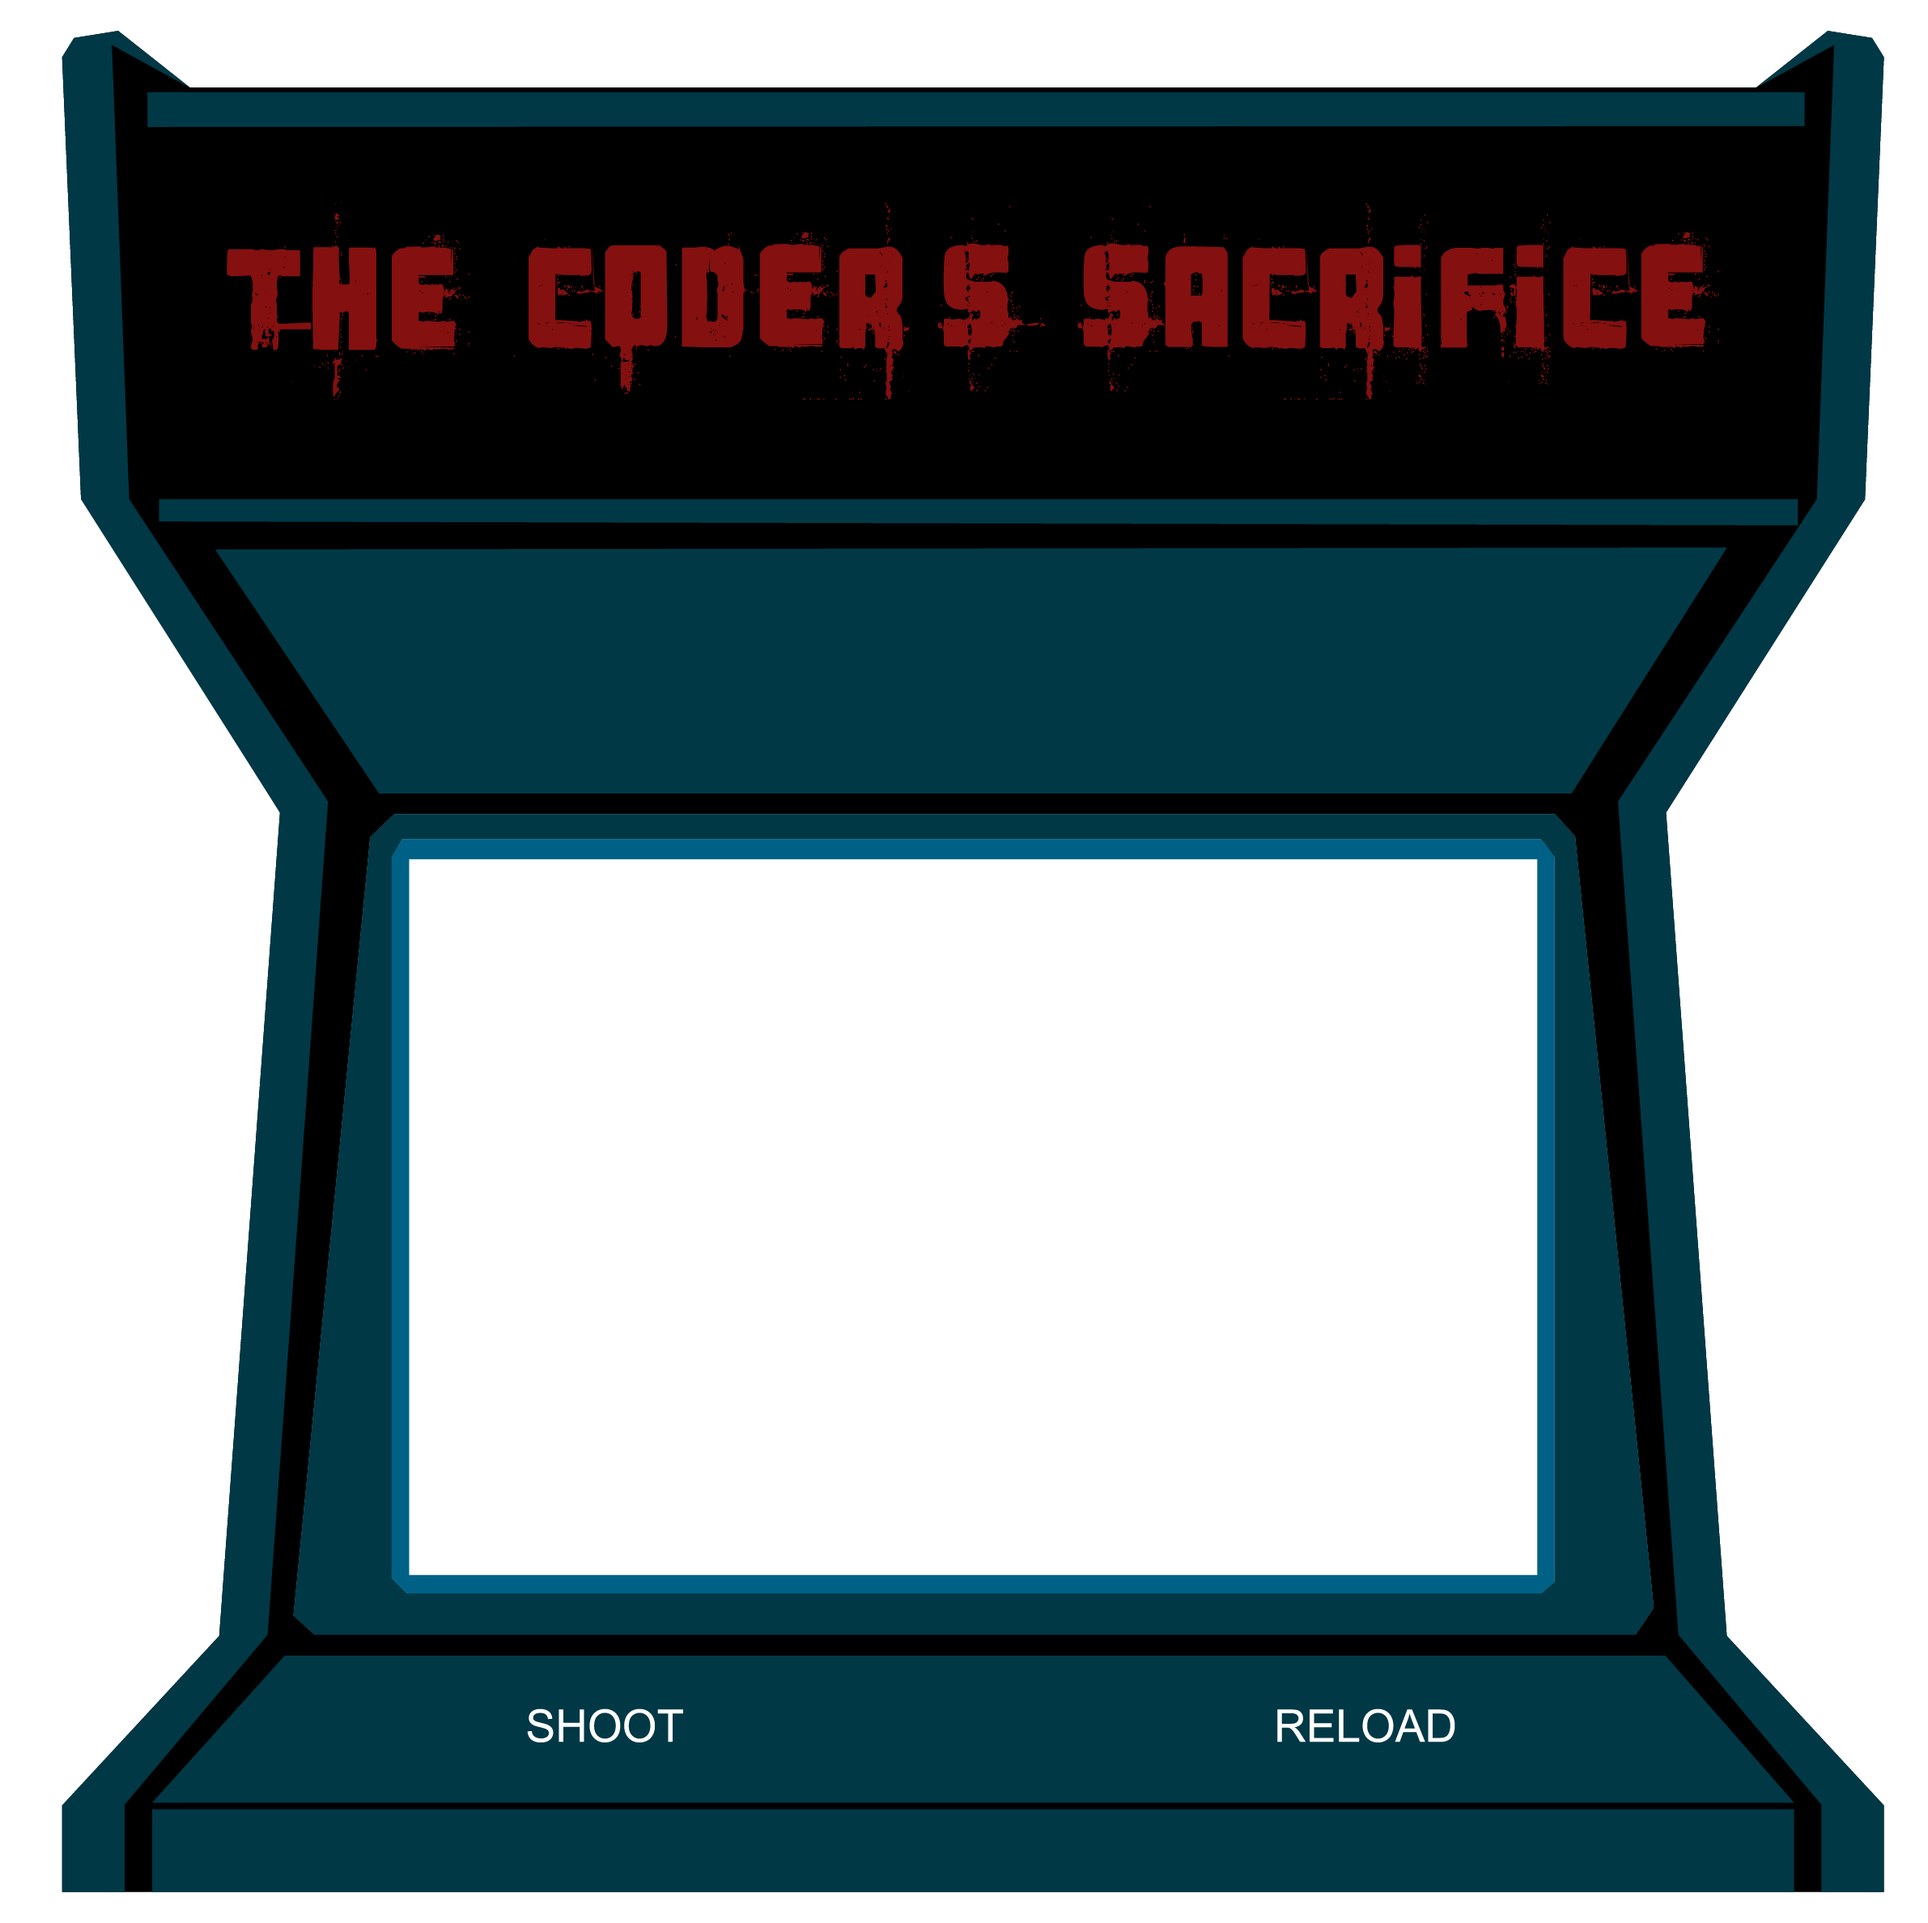
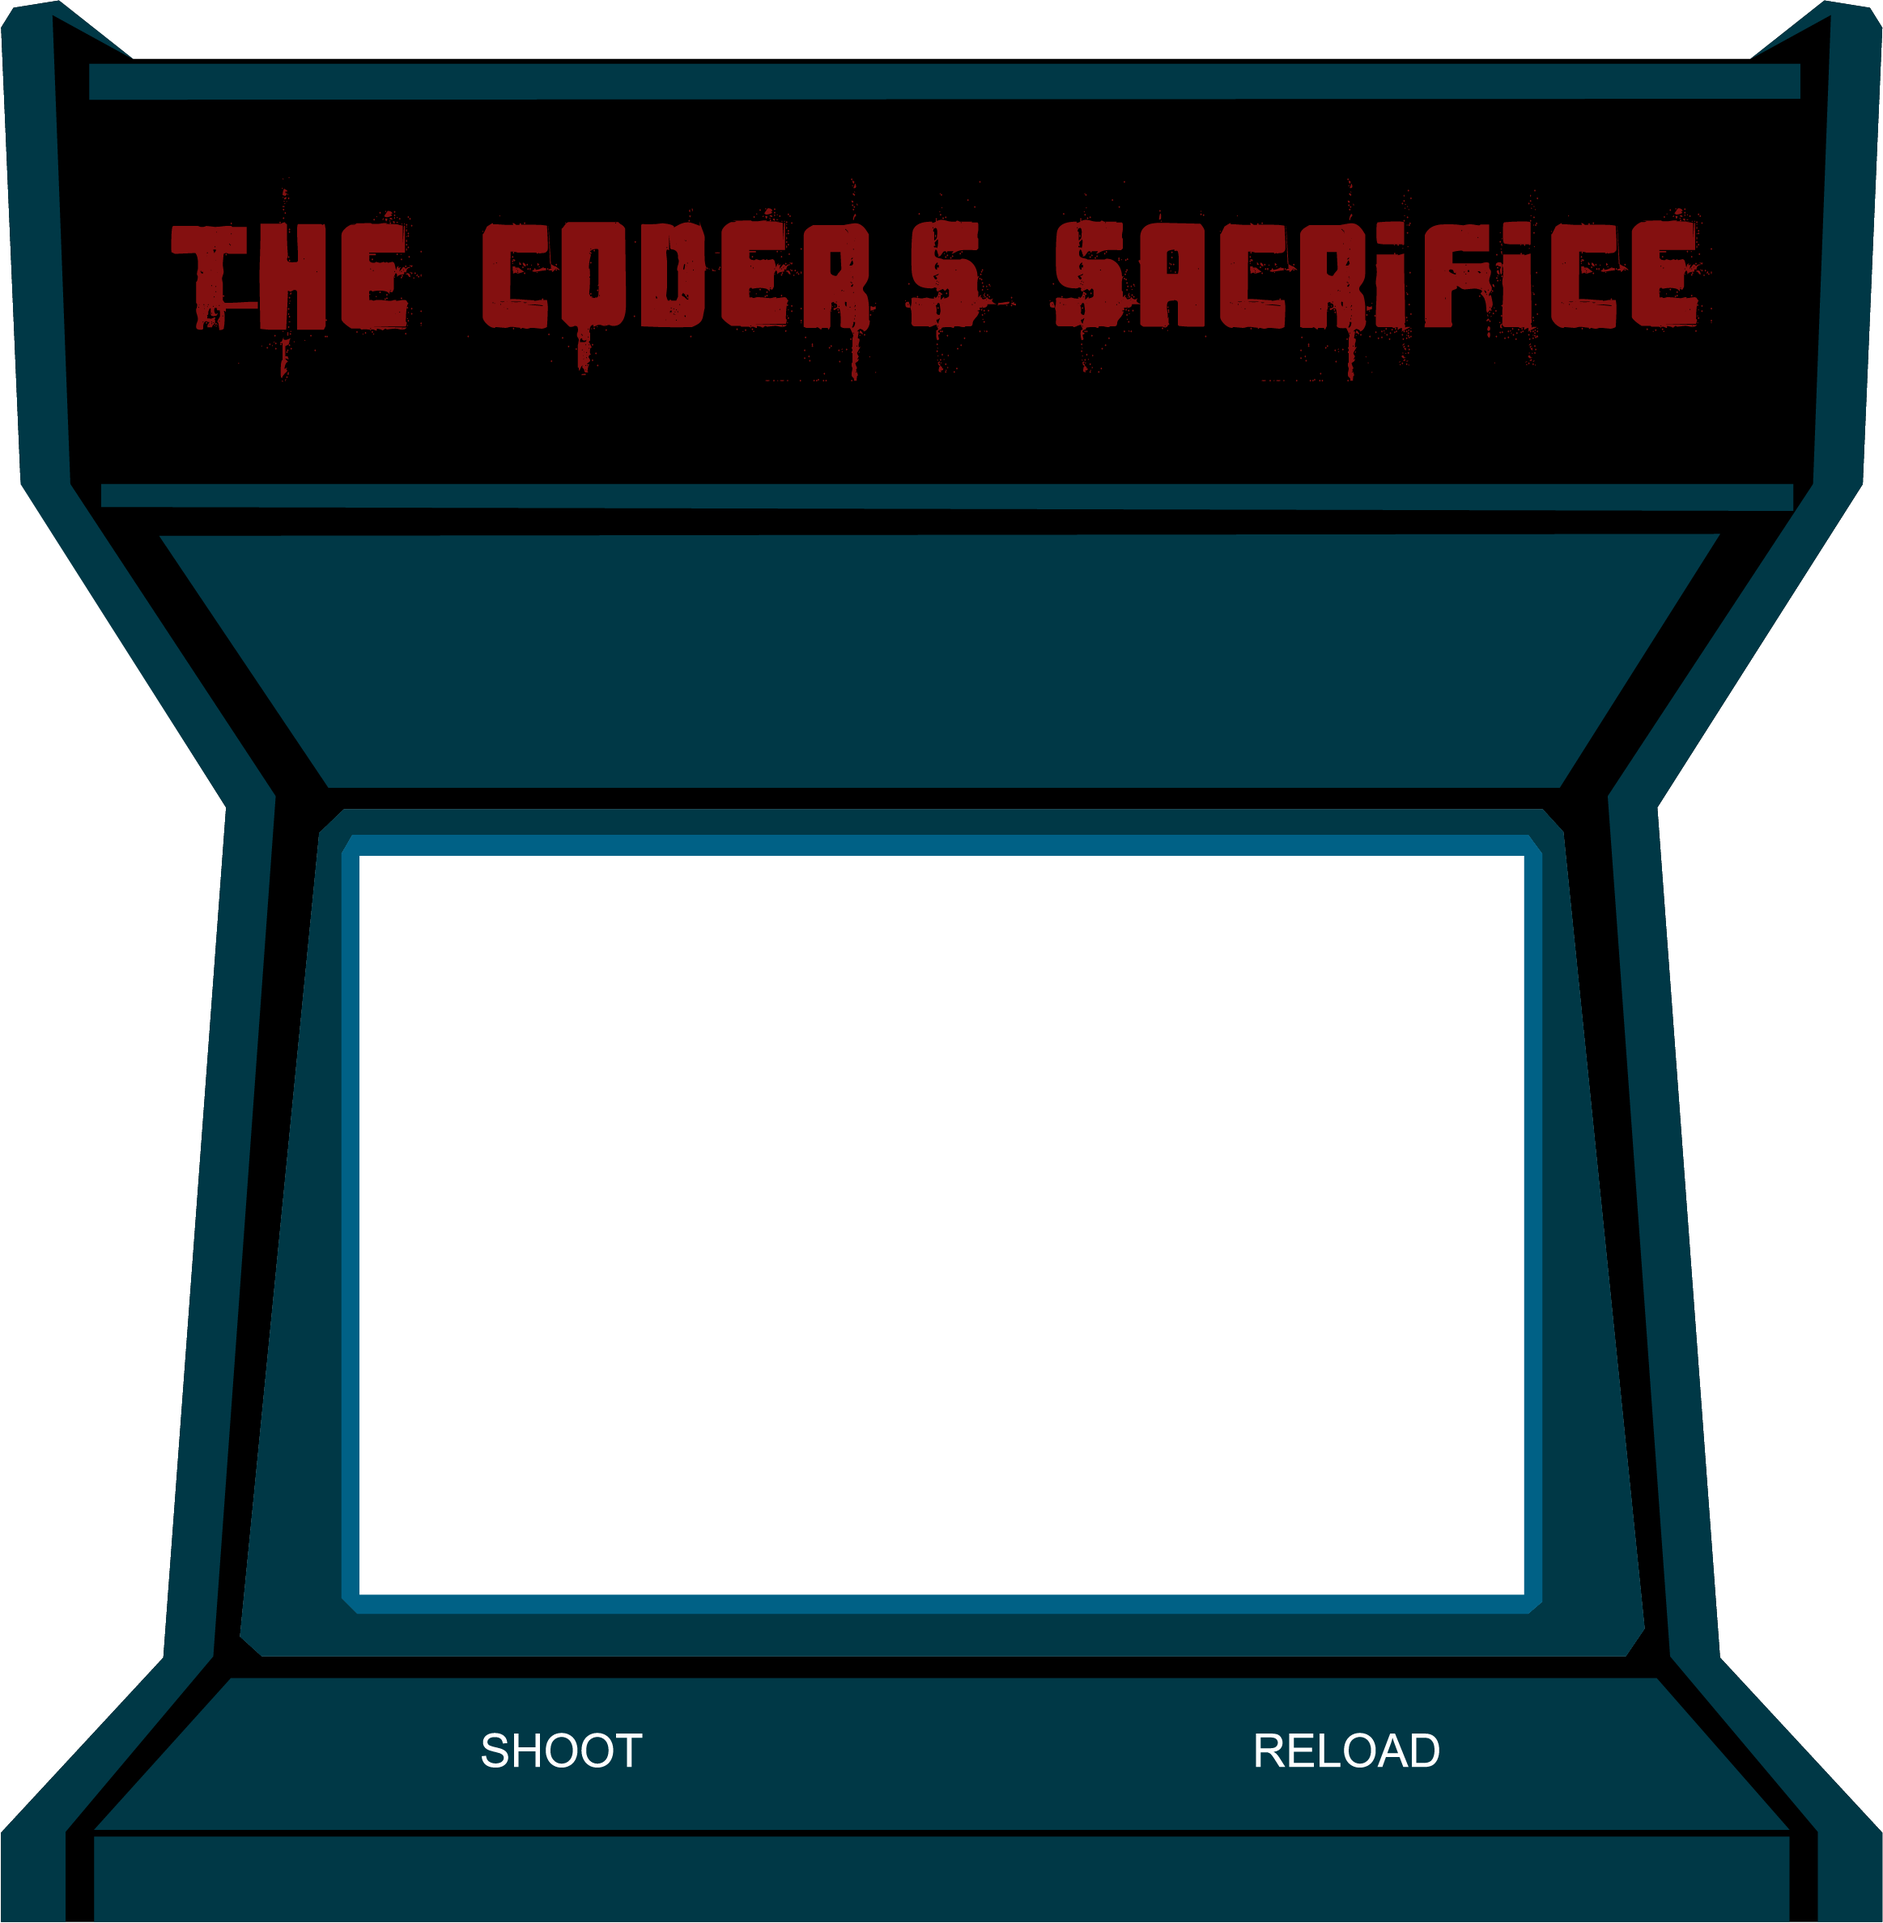
change background

Changed region(s): [[0.0, 0.0, 1.0, 1.0]]

diff --git a/index.html b/index.html
@@ -4,31 +4,31 @@
     <meta charset="UTF-8">
     <meta http-equiv="X-UA-Compatible" content="IE=edge">
     <meta name="viewport" content="width=device-width, initial-scale=1.0">
-    <link rel="stylesheet" href="style.css">
+    <link rel="stylesheet" href="/style.css">
     <title>Document</title>
 </head>
 <body>
-    
-    <div class="contenedor">
-        <div class="fondomaquina">
-            <img class="maquina" src="images/BackgroundPage-06.jpg">
+    <div class="machine">
+        <div class="juego">
+            <!-- <img src="/images/South-Park-The-Stick-Of-Truth-South-Park-screen-shot-1172964.jpg" alt=""> -->
         </div>
     </div>
     
     
-    <div class="contenedor1">
+    
+    <!-- <div class="contenedor1">
         <div class="south">
-            <img class="park" src="/images/South-Park-The-Stick-Of-Truth-South-Park-screen-shot-1172964.jpg">
+            <img class="park" src="/images/South-Park-The-Stick-Of-Truth-South-Park-screen-shot-1172964.jpg"> 
 
         </div>
-    </div>
-    <footer>
+    </div> -->
+    <!-- <footer>
         <div class="copy">
             <p><p>&copy; 2022 The Coders Sacrifice
             </span></p>
         </div>   
 
-    </footer>
+    </footer> -->
     
         
     

diff --git a/style.css b/style.css
@@ -31,7 +31,7 @@
     top: 20px;
     right: 30px;
     font-size: 30px;
-    fotn-weight: bold;
+    font-weight: bold;
     text-decoration: none;
     color: #F00;
     transition: all 200ms;
@@ -52,28 +52,31 @@ margin: 0px;
 padding:0px;
 }
 
-/*body {
-    background-image: url(/images/BackgroundPage-06.jpg);
-    width: 100%;
-    height: 100%;*/
-   
-/*}*/
-
-
-
-.contenedor {
-    
-    
-    width: 1350px;
-    height: 620px;
+body {
+    background-image: url(/images/Background.png);
     background-size: cover;
-    position: absolute;
+    background-repeat: no-repeat;
+    display: flex;
+    justify-content: center;
 }
-.fondomaquina{
-    height: 100%;
-    width: auto;
-    
 
+
+.machine {
+    background-image: url(/images/maquina-cortada.png);
+    background-size: 1000px 1000px;
+    width: 1000px;
+    height: 1000px;
+}
+
+.juego img:nth-child(1){
+    width: 100%;
+}
+
+
+
+
+img {
+    height: 1080px;
 }
 .maquina{
     width: 1350px;
